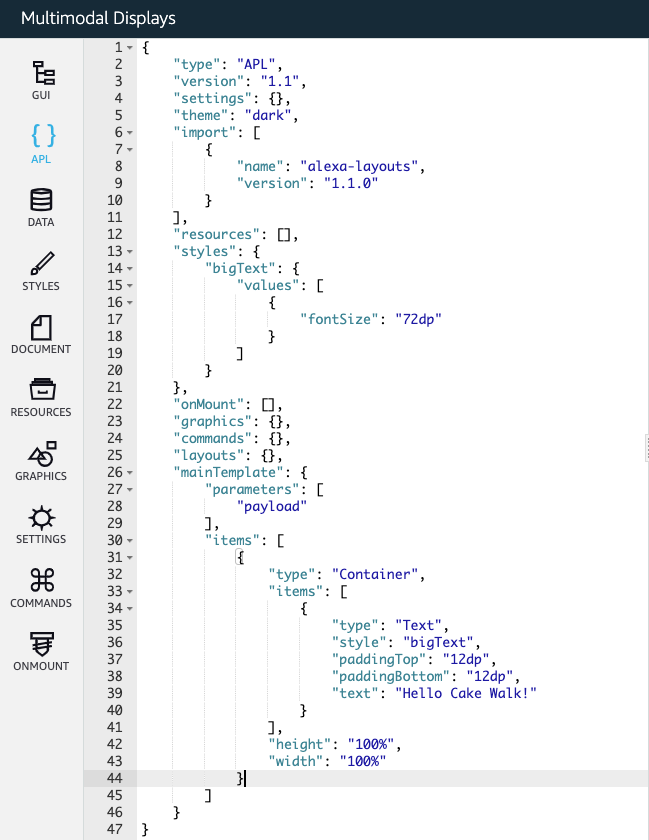
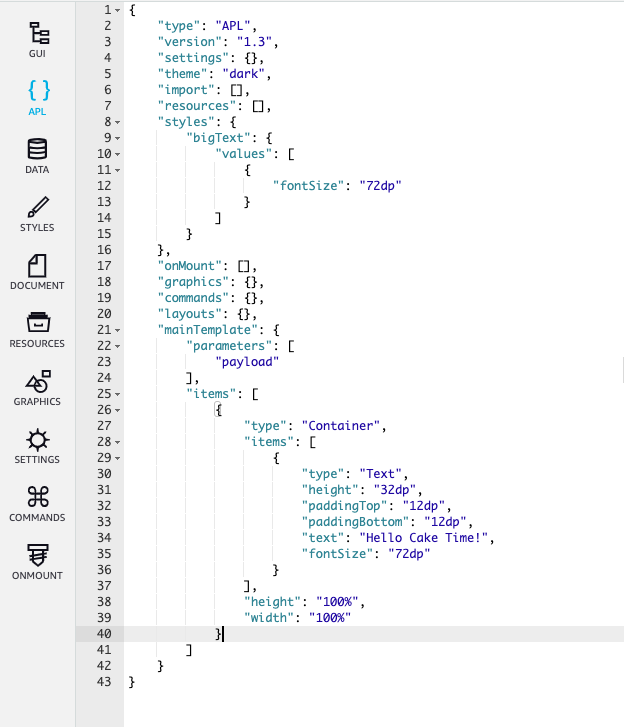
renamed skill to cake time (#4)
Editor's Note: We have changed the name of the Alexa skill in our beginner tutorial from Cake Walk to Cake Time given the term's racially insensitive history.

diff --git a/modules/code/module5/index.js b/modules/code/module5/index.js
@@ -143,7 +143,7 @@ const LaunchRequestHandler = {
         return handlerInput.requestEnvelope.request.type === 'LaunchRequest';
     },
     handle(handlerInput) {
-        const speakOutput = 'Hello! Welcome to Cake walk. What is your birthday?';
+        const speakOutput = 'Hello! Welcome to Cake Time. What is your birthday?';
         const repromptOutput = 'I was born Nov. 6th, 2015. When were you born?';
 
         // Add APL directive to response
@@ -157,7 +157,7 @@ const LaunchRequestHandler = {
                         type: 'object',
                         start: "Welcome",
                         middle: "to",
-                        end: "Cake Walk!"
+                        end: "Cake Time!"
                     },
                     assets: {
                         cake: util.getS3PreSignedUrl('Media/alexaCake_960x960.png'),
@@ -167,7 +167,7 @@ const LaunchRequestHandler = {
             });
         }
 
-        const headerMessage = "Welcome to Cake Walk!";
+        const headerMessage = "Welcome to Cake Time!";
 
         return handlerInput.responseBuilder
             .speak(speakOutput)

diff --git a/modules/code/module3/index.js b/modules/code/module3/index.js
@@ -89,7 +89,7 @@ const LaunchRequestHandler = {
         return handlerInput.requestEnvelope.request.type === 'LaunchRequest';
     },
     handle(handlerInput) {
-        const speakOutput = 'Hello! Welcome to Cake walk. What is your birthday?';
+        const speakOutput = 'Hello! Welcome to Cake Time. What is your birthday?';
         const repromptOutput = 'I was born Nov. 6th, 2015. When were you born?';
         
         const viewportProfile = Alexa.getViewportProfile(handlerInput.requestEnvelope);
@@ -106,7 +106,7 @@ const LaunchRequestHandler = {
                         type: 'object',
                         start: "Welcome",
                         middle: "to",
-                        end: "Cake Walk!"
+                        end: "Cake Time!"
                     },
                     assets: {
                         cake: util.getS3PreSignedUrl('Media/alexaCake_960x960.png'),

diff --git a/modules/code/module4/index.js b/modules/code/module4/index.js
@@ -133,7 +133,7 @@ const LaunchRequestHandler = {
         return handlerInput.requestEnvelope.request.type === 'LaunchRequest';
     },
     handle(handlerInput) {
-        const speakOutput = 'Hello! Welcome to Cake walk. What is your birthday?';
+        const speakOutput = 'Hello! Welcome to Cake Time. What is your birthday?';
         const repromptOutput = 'I was born Nov. 6th, 2015. When were you born?';
 
         // Add APL directive to response
@@ -147,7 +147,7 @@ const LaunchRequestHandler = {
                         type: 'object',
                         start: "Welcome",
                         middle: "to",
-                        end: "Cake Walk!"
+                        end: "Cake Time!"
                     },
                     assets: {
                         cake: util.getS3PreSignedUrl('Media/alexaCake_960x960.png'),
